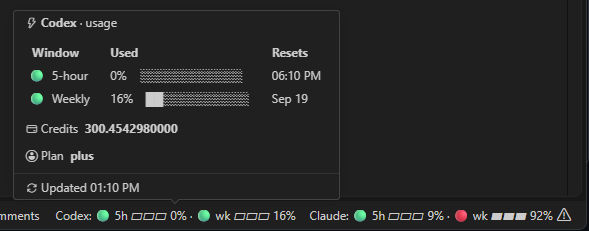
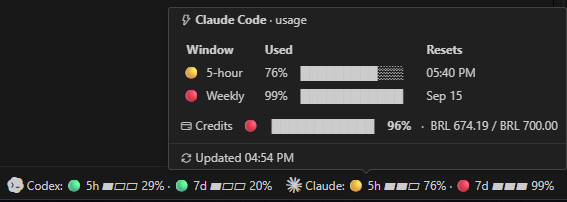
fix: use 7d for weekly usage window

diff --git a/src/shared/renderer.ts b/src/shared/renderer.ts
@@ -1,6 +1,7 @@
 import * as vscode from 'vscode';
 import { agentPrefix, dot, escapeMarkdown, formatReset, meter, money, pctShort, presentationPercent, statusPart } from './format';
 import { AgentProvider, AgentSettings, AgentUsage, PresentationMode, UsageWindow } from './types';
+import { resolveWindowLabel } from './windowLabels';
 
 export interface RenderInput {
   provider: AgentProvider;
@@ -33,11 +34,11 @@ export function renderStatus(input: RenderInput): { text: string; tooltip: strin
     settings.replacePrimaryWithWeeklyOnLimit && isWindowLimitReached(usage.weekly);
 
   if (replacePrimaryWithWeekly) {
-    parts.push(renderBarPart(windowLabels?.weekly ?? 'wk', usage.weekly, mode, settings));
+    parts.push(renderBarPart(resolveWindowLabel(windowLabels, 'weekly'), usage.weekly, mode, settings));
   } else {
-    parts.push(renderBarPart(windowLabels?.fiveHour ?? '5h', usage.fiveHour, mode, settings));
+    parts.push(renderBarPart(resolveWindowLabel(windowLabels, 'fiveHour'), usage.fiveHour, mode, settings));
     if (settings.showWeekly) {
-      parts.push(renderBarPart(windowLabels?.weekly ?? 'wk', usage.weekly, mode, settings));
+      parts.push(renderBarPart(resolveWindowLabel(windowLabels, 'weekly'), usage.weekly, mode, settings));
     }
   }
 

diff --git a/src/test/windowLabels.test.ts b/src/test/windowLabels.test.ts
@@ -1,0 +1,11 @@
+import * as assert from 'node:assert/strict';
+import { test } from 'node:test';
+import { resolveWindowLabel } from '../shared/windowLabels';
+
+test('uses 7d as the secondary window label when no label is supplied', () => {
+  assert.equal(resolveWindowLabel(undefined, 'weekly'), '7d');
+});
+
+test('uses a supplied secondary window label instead of the default', () => {
+  assert.equal(resolveWindowLabel({ weekly: 'Monthly' }, 'weekly'), 'Monthly');
+});

diff --git a/src/shared/windowLabels.ts b/src/shared/windowLabels.ts
@@ -1,0 +1,15 @@
+import type { AgentProvider } from './types';
+
+type WindowSlot = 'fiveHour' | 'weekly';
+
+const defaultWindowLabels: Record<WindowSlot, string> = {
+  fiveHour: '5h',
+  weekly: '7d',
+};
+
+export function resolveWindowLabel(
+  labels: AgentProvider['windowLabels'] | undefined,
+  slot: WindowSlot,
+): string {
+  return labels?.[slot] ?? defaultWindowLabels[slot];
+}

diff --git a/docs/architecture.md b/docs/architecture.md
@@ -90,10 +90,10 @@ implements `isEnabled()`, `detect()`, `fetchUsage()`, and declares
 windows.** They're rendered as "primary" and "secondary" gauges regardless of
 what they actually represent. Label resolution order is
 `usage.windowLabels ?? provider.windowLabels ?? hardcoded default`
-([renderer.ts](../src/shared/renderer.ts) L30) — a per-fetch `windowLabels` on
+([windowLabels.ts](../src/shared/windowLabels.ts)) — a per-fetch `windowLabels` on
 the returned `AgentUsage` would override a provider's static `windowLabels`,
 but neither current provider (Codex, Claude) uses this override; both rely on
-the hardcoded `5h`/`wk` default.
+the hardcoded `5h`/`7d` default.
 
 `replacePrimaryWithWeeklyOnLimit` (a global setting) swaps which slot renders
 in the primary status-bar position when the secondary window's `usedPercent`
